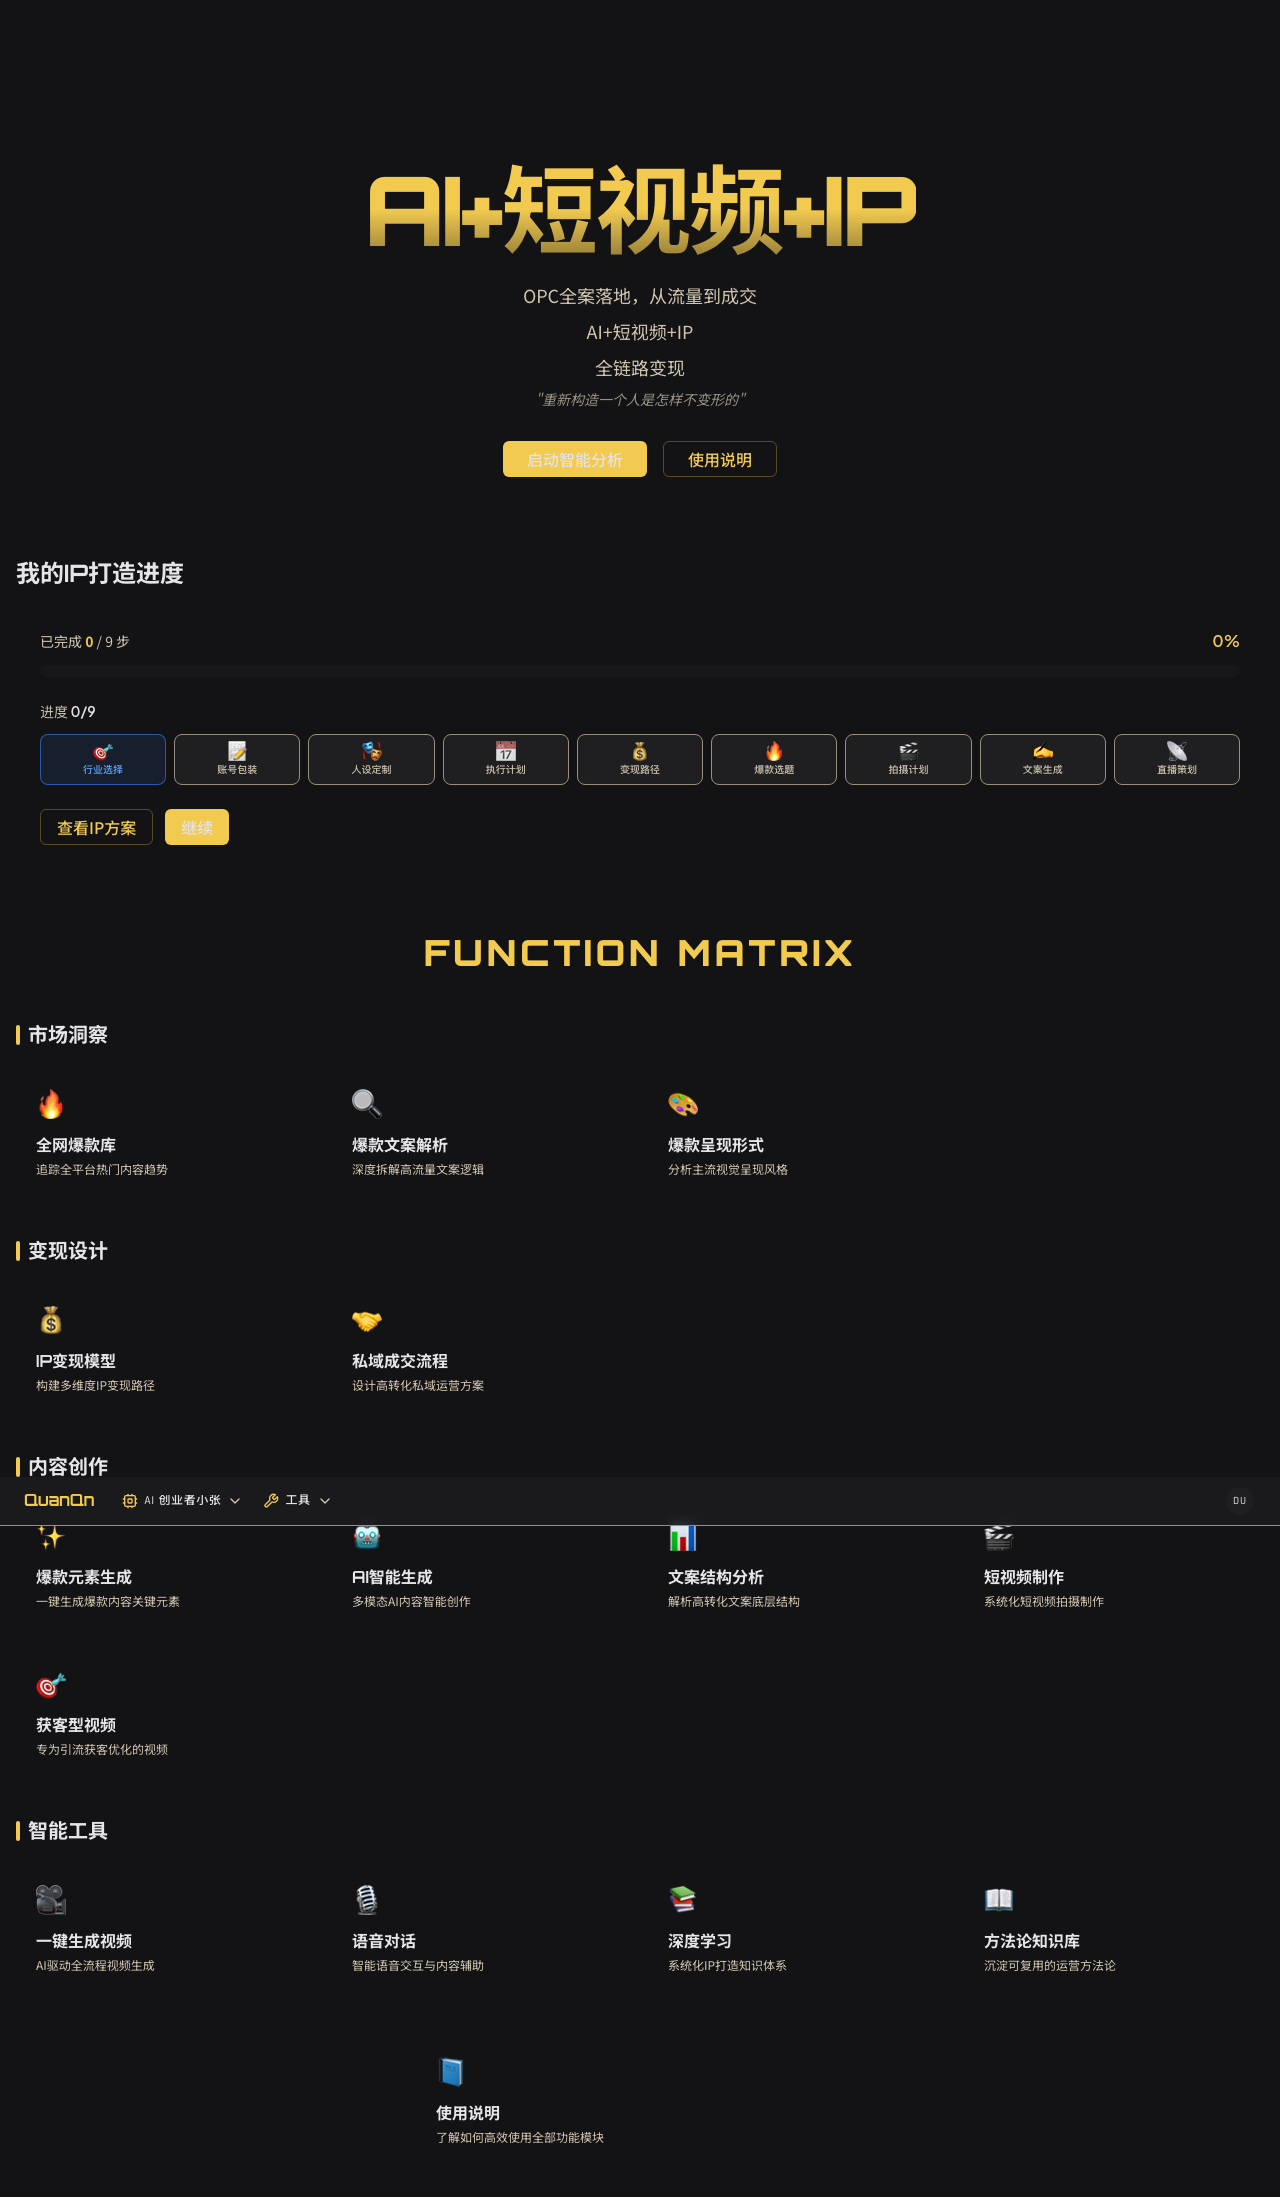
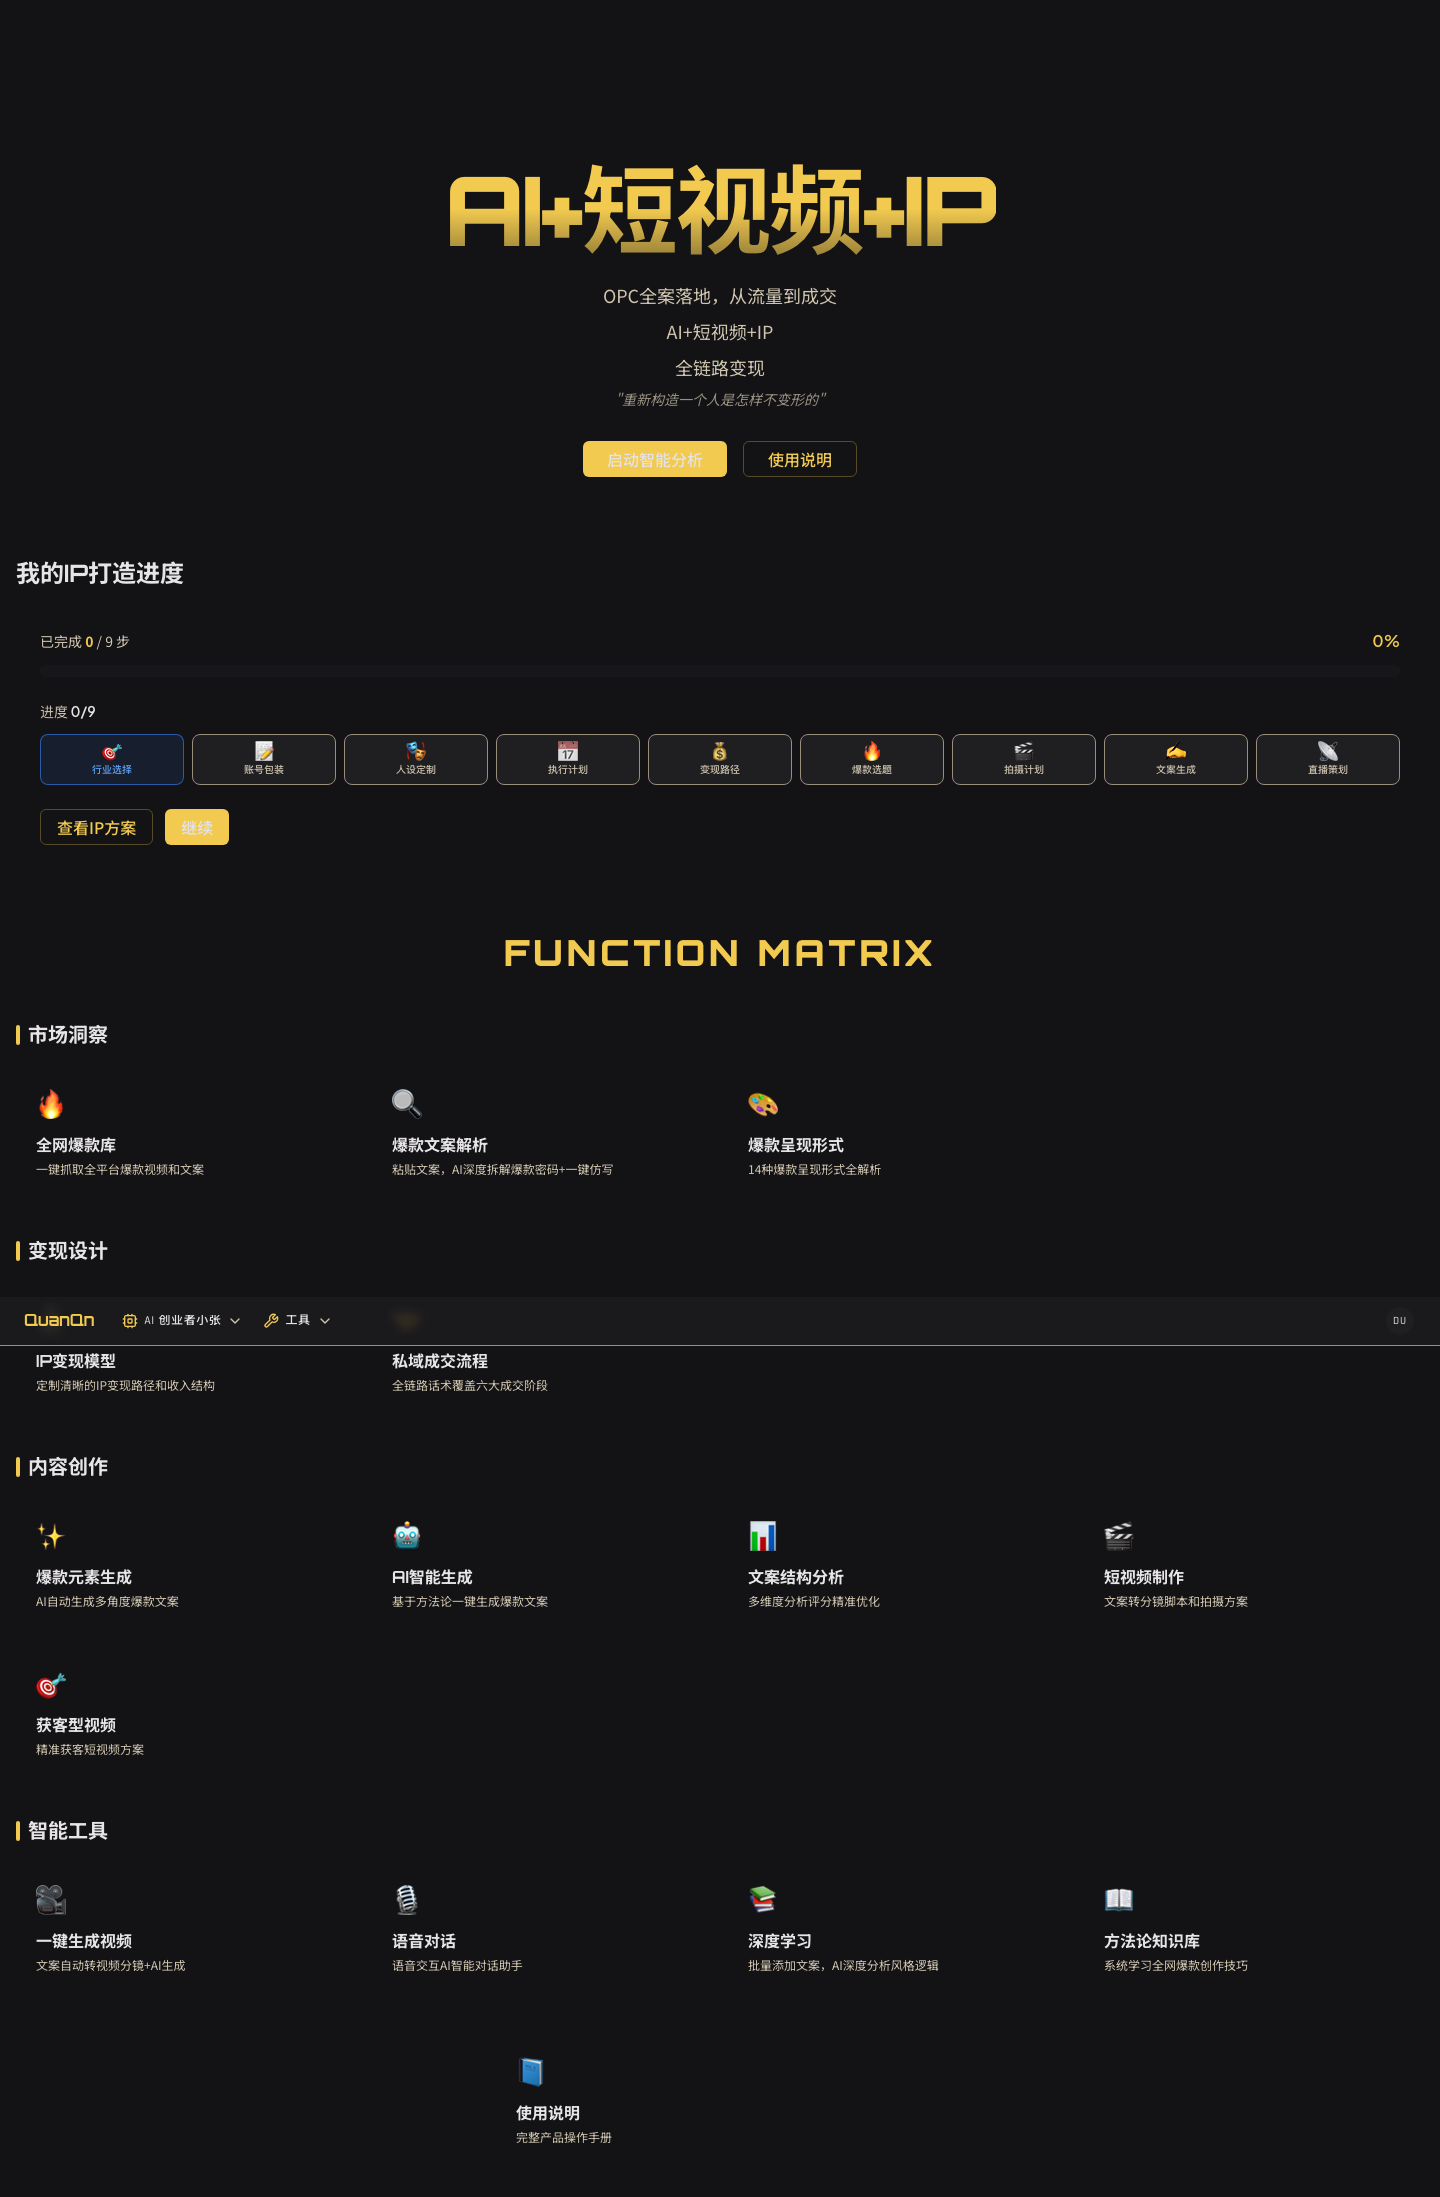
feat: [US-004] 首页 FUNCTION MATRIX 15 卡 desc 字面对齐 aiipznt(Opus reject 修复)
将 function-matrix.ts 全部 15 条 desc 替换为 PRD AC-2 字面锁定文本,
严格 1:1 对齐 aiipznt 实测原文, 消除 Opus reject 指出的 desc 创意改写问题。

diff --git a/apps/web/src/lib/constants/function-matrix.ts b/apps/web/src/lib/constants/function-matrix.ts
@@ -14,35 +14,35 @@ export const FUNCTION_MATRIX: FunctionGroup[] = [
   {
     title: '市场洞察',
     cards: [
-      { icon: '🔥', title: '全网爆款库', desc: '追踪全平台热门内容趋势', href: '/trending' },
-      { icon: '🔍', title: '爆款文案解析', desc: '深度拆解高流量文案逻辑', href: '/video-analysis' },
-      { icon: '🎨', title: '爆款呈现形式', desc: '分析主流视觉呈现风格', href: '/present-styles' },
+      { icon: '🔥', title: '全网爆款库', desc: '一键抓取全平台爆款视频和文案', href: '/trending' },
+      { icon: '🔍', title: '爆款文案解析', desc: '粘贴文案，AI深度拆解爆款密码+一键仿写', href: '/video-analysis' },
+      { icon: '🎨', title: '爆款呈现形式', desc: '14种爆款呈现形式全解析', href: '/present-styles' },
     ],
   },
   {
     title: '变现设计',
     cards: [
-      { icon: '💰', title: 'IP变现模型', desc: '构建多维度IP变现路径', href: '/monetization' },
-      { icon: '🤝', title: '私域成交流程', desc: '设计高转化私域运营方案', href: '/private-domain' },
+      { icon: '💰', title: 'IP变现模型', desc: '定制清晰的IP变现路径和收入结构', href: '/monetization' },
+      { icon: '🤝', title: '私域成交流程', desc: '全链路话术覆盖六大成交阶段', href: '/private-domain' },
     ],
   },
   {
     title: '内容创作',
     cards: [
-      { icon: '✨', title: '爆款元素生成', desc: '一键生成爆款内容关键元素', href: '/boom-generate' },
-      { icon: '🤖', title: 'AI智能生成', desc: '多模态AI内容智能创作', href: '/generate' },
-      { icon: '📊', title: '文案结构分析', desc: '解析高转化文案底层结构', href: '/analysis' },
-      { icon: '🎬', title: '短视频制作', desc: '系统化短视频拍摄制作', href: '/video-production' },
-      { icon: '🎯', title: '获客型视频', desc: '专为引流获客优化的视频', href: '/acquisition-video' },
+      { icon: '✨', title: '爆款元素生成', desc: 'AI自动生成多角度爆款文案', href: '/boom-generate' },
+      { icon: '🤖', title: 'AI智能生成', desc: '基于方法论一键生成爆款文案', href: '/generate' },
+      { icon: '📊', title: '文案结构分析', desc: '多维度分析评分精准优化', href: '/analysis' },
+      { icon: '🎬', title: '短视频制作', desc: '文案转分镜脚本和拍摄方案', href: '/video-production' },
+      { icon: '🎯', title: '获客型视频', desc: '精准获客短视频方案', href: '/acquisition-video' },
     ],
   },
   {
     title: '智能工具',
     cards: [
-      { icon: '🎥', title: '一键生成视频', desc: 'AI驱动全流程视频生成', href: '/ai-video' },
-      { icon: '🎙️', title: '语音对话', desc: '智能语音交互与内容辅助', href: '/voice-chat' },
-      { icon: '📚', title: '深度学习', desc: '系统化IP打造知识体系', href: '/deep-learning' },
-      { icon: '📖', title: '方法论知识库', desc: '沉淀可复用的运营方法论', href: '/knowledge' },
+      { icon: '🎥', title: '一键生成视频', desc: '文案自动转视频分镜+AI生成', href: '/ai-video' },
+      { icon: '🎙️', title: '语音对话', desc: '语音交互AI智能对话助手', href: '/voice-chat' },
+      { icon: '📚', title: '深度学习', desc: '批量添加文案，AI深度分析风格逻辑', href: '/deep-learning' },
+      { icon: '📖', title: '方法论知识库', desc: '系统学习全网爆款创作技巧', href: '/knowledge' },
     ],
   },
 ];
@@ -50,6 +50,6 @@ export const FUNCTION_MATRIX: FunctionGroup[] = [
 export const FUNCTION_MATRIX_FOOTER: FunctionCard = {
   icon: '📘',
   title: '使用说明',
-  desc: '了解如何高效使用全部功能模块',
+  desc: '完整产品操作手册',
   href: '/guide',
 };